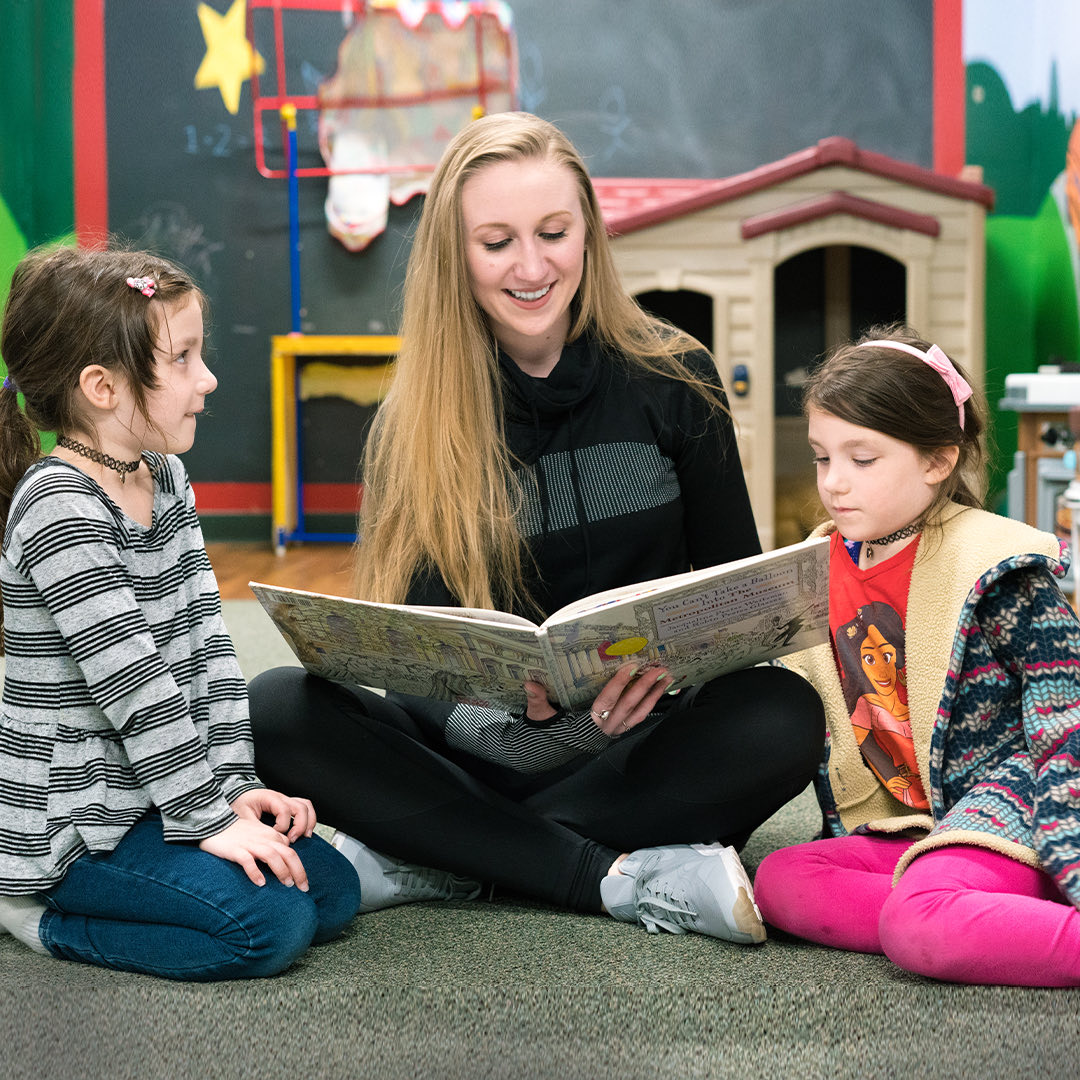
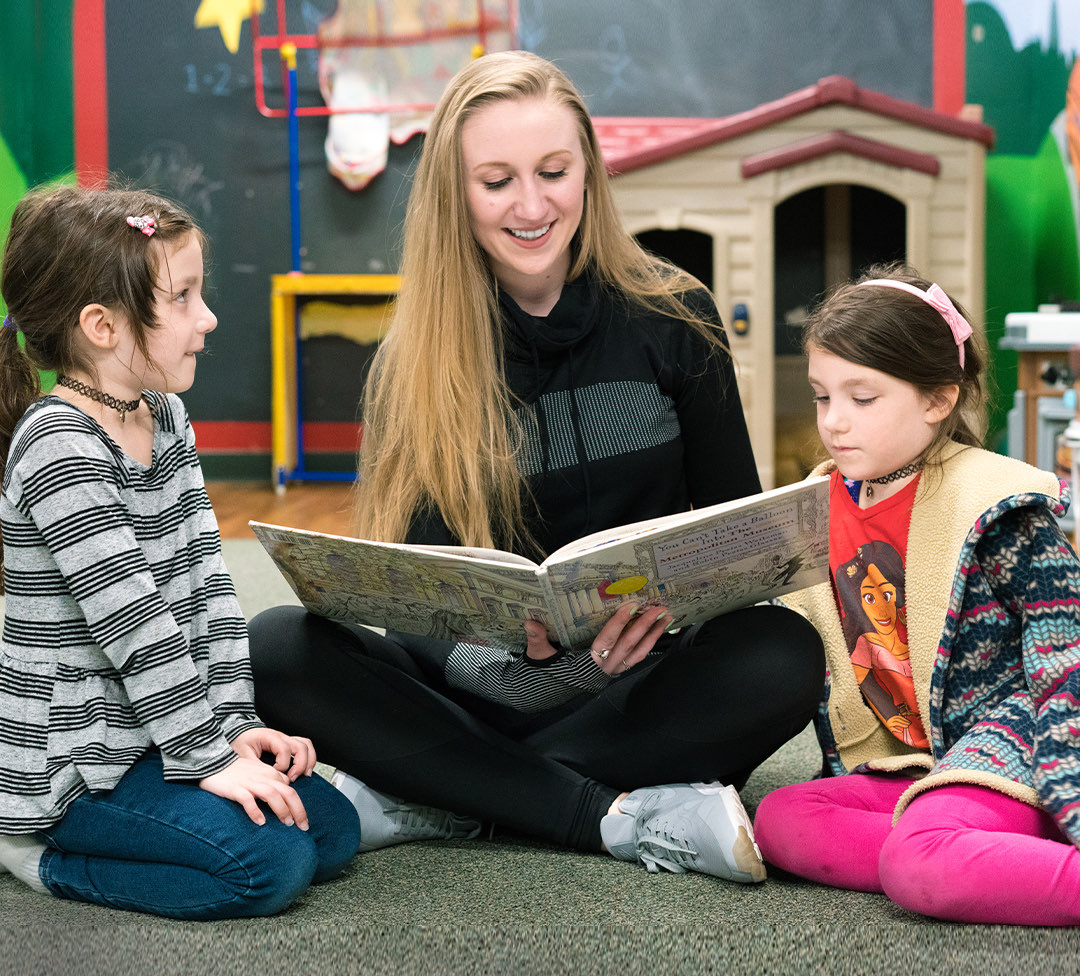
Kidzville: hours first, copy full width, storytime photo uncropped
The intro is text-only again and spans the width; the photo moves beside the
hours, and the two sections swap so hours land straight under the hero — the
thing a parent is actually looking for.

Hours are rebuilt as a split with the list passed through body_html, the same
mechanism the homepage club blocks use, so the two-column layout needs no new
markup. The member-only sign-ups paragraph rides along inside it.

Photo takes v2 at its supplied 1080x976 — no resize, no crop, as asked. Rather
than override object-fit, the frame takes the image's own ratio: the box matches
the picture, so nothing is cut and nothing is letterboxed, and the inline value
also overrides the phone's 4/3.4. Re-encoded only: 749 -> 313 KB.

Consequence worth knowing: this split is landscape where every other one on the
site is portrait, so it sits shorter than its neighbours.

Dropped with the restructure: the "See the hours" link, now that hours precede
the copy, and section--panel, which a split does not carry — the hours no longer
sit on the lighter background.

diff --git a/docs/kidzville/index.html b/docs/kidzville/index.html
@@ -9,7 +9,7 @@
 <link rel="preconnect" href="https://fonts.gstatic.com" crossorigin>
 <link href="https://fonts.googleapis.com/css2?family=Anton&family=Montserrat:ital,wght@0,300;0,400;0,500;0,600;0,700;1,400&display=swap" rel="stylesheet">
 <link rel="icon" type="image/svg+xml" href="/forma-gym-redesign/assets/img/forma-logo.svg">
-<link rel="stylesheet" href="/forma-gym-redesign/assets/css/main.css?v=1787882454">
+<link rel="stylesheet" href="/forma-gym-redesign/assets/css/main.css?v=1787894105">
 <script>(function(){try{
   if(sessionStorage.getItem("forma-intro"))document.documentElement.classList.add("no-preloader");
   var v=localStorage.getItem("forma-view");
@@ -90,37 +90,32 @@
   <div class="hero__scroll" aria-hidden="true"></div>
 </section>
 
-
 <section class="section">
   <div class="wrap">
     <div class="split split--rev">
-      <div class="split__media reveal-img">
+      <div class="split__media reveal-img" style="aspect-ratio:1080/976">
         <img src="/forma-gym-redesign/assets/img/kidz_storytime.jpg" alt="Kidzville staff reading with two children" loading="lazy" srcset="/forma-gym-redesign/assets/img/r/kidz_storytime-400.jpg 400w, /forma-gym-redesign/assets/img/r/kidz_storytime-700.jpg 700w, /forma-gym-redesign/assets/img/kidz_storytime.jpg 1080w" sizes="(max-width: 900px) 100vw, 50vw">
       </div>
       <div class="split__body">
-        <p class="eyebrow">Safe · active · educational</p>
-        <h2 class="h-display">Where <span class="serif">kids</span> actually want to be</h2>
-        <div class="reveal"><p class="body-copy">We offer you the time and space to break free from family responsibilities for a little while – to socialize and work out – while our reliable, capable staff helps your kids enjoy plenty of play and learning.</p><p class="body-copy">Forma Kidzville was created to provide a safe, stimulating and playful environment where children and preteens are free to learn, explore, experiment, and be active, imaginative and creative.</p><div class="split__cta"><a class="inline-link" href="#hours">See the hours →</a></div></div>
+        <p class="eyebrow">Kidzville hours</p>
+        <h2 class="h-display">When we're <span class="serif">open</span></h2>
+        <div class="reveal"><div class="loc-hours"><div><dt>Mon–Thu AM</dt><dd>8:00am – 1:00pm</dd></div><div><dt>Mon–Thu PM</dt><dd>4:00pm – 7:30pm</dd></div><div><dt>Friday</dt><dd>8:00am – 1:00pm</dd></div><div><dt>Sat–Sun</dt><dd>8:00am – 12:00pm</dd></div></div><p class="body-copy reveal only-member">Questions or sign-ups: <a href="mailto:WCReps@formagym.com" style="color:var(--accent-ink)">WCReps@formagym.com</a> or call the front desk at (925) 932-6400. Reservations recommended.</p></div>
       </div>
     </div>
   </div>
 </section>
 
-
-<section class="section section--panel" id="hours">
+<section class="section">
   <div class="wrap">
-    <div class="cards-head">
+    <div class="intro-grid">
       <div>
-        <p class="eyebrow">Kidzville hours</p>
-        <h2 class="h-display reveal">When we're <span class="serif">open</span></h2>
+        <p class="eyebrow">Safe &middot; active &middot; educational</p>
+        <h2 class="h-display reveal">Where <span class="serif">kids</span> actually want to be</h2>
       </div>
-      <p class="body-copy reveal only-member" style="max-width:34ch">Questions or sign-ups: <a href="mailto:WCReps@formagym.com" style="color:var(--accent-ink)">WCReps@formagym.com</a> or call the front desk at (925) 932-6400. Reservations recommended.</p>
-    </div>
-    <div class="loc-hours" style="max-width:34rem">
-      <div><dt>Mon–Thu AM</dt><dd>8:00am – 1:00pm</dd></div>
-      <div><dt>Mon–Thu PM</dt><dd>4:00pm – 7:30pm</dd></div>
-      <div><dt>Friday</dt><dd>8:00am – 1:00pm</dd></div>
-      <div><dt>Sat–Sun</dt><dd>8:00am – 12:00pm</dd></div>
+      <div class="intro-grid__right">
+        <p class="lede reveal">We offer you the time and space to break free from family responsibilities for a little while &ndash; to socialize and work out &ndash; while our reliable, capable staff helps your kids enjoy plenty of play and learning.</p>
+        <p class="body-copy reveal">Forma Kidzville was created to provide a safe, stimulating and playful environment where children and preteens are free to learn, explore, experiment, and be active, imaginative and creative.</p>
+      </div>
     </div>
   </div>
 </section>
@@ -190,8 +185,8 @@
     </div>
   </div>
 </footer>
-<script src="/forma-gym-redesign/assets/js/main.js?v=1787882454"></script>
-<script src="/forma-gym-redesign/assets/js/chat-config.js?v=1787882454"></script>
-<script src="/forma-gym-redesign/assets/js/chat.js?v=1787882454" defer></script>
+<script src="/forma-gym-redesign/assets/js/main.js?v=1787894105"></script>
+<script src="/forma-gym-redesign/assets/js/chat-config.js?v=1787894105"></script>
+<script src="/forma-gym-redesign/assets/js/chat.js?v=1787894105" defer></script>
 </body>
 </html>

diff --git a/docs/join-now/index.html b/docs/join-now/index.html
@@ -9,7 +9,7 @@
 <link rel="preconnect" href="https://fonts.gstatic.com" crossorigin>
 <link href="https://fonts.googleapis.com/css2?family=Anton&family=Montserrat:ital,wght@0,300;0,400;0,500;0,600;0,700;1,400&display=swap" rel="stylesheet">
 <link rel="icon" type="image/svg+xml" href="/forma-gym-redesign/assets/img/forma-logo.svg">
-<link rel="stylesheet" href="/forma-gym-redesign/assets/css/main.css?v=1787882454">
+<link rel="stylesheet" href="/forma-gym-redesign/assets/css/main.css?v=1787894105">
 <script>(function(){try{
   if(sessionStorage.getItem("forma-intro"))document.documentElement.classList.add("no-preloader");
   var v=localStorage.getItem("forma-view");
@@ -274,7 +274,7 @@
     </div>
   </div>
 </div>
-<script src="/forma-gym-redesign/assets/js/join.js?v=1787882454" defer></script>
+<script src="/forma-gym-redesign/assets/js/join.js?v=1787894105" defer></script>
 
 <section class="cta-band">
   <div class="cta-band__media"><img src="/forma-gym-redesign/assets/img/sj_gym_floor.jpg" alt="" loading="lazy" srcset="/forma-gym-redesign/assets/img/r/sj_gym_floor-400.jpg 400w, /forma-gym-redesign/assets/img/r/sj_gym_floor-700.jpg 700w, /forma-gym-redesign/assets/img/r/sj_gym_floor-1000.jpg 1000w, /forma-gym-redesign/assets/img/sj_gym_floor.jpg 1600w" sizes="100vw"></div>
@@ -341,8 +341,8 @@
     </div>
   </div>
 </footer>
-<script src="/forma-gym-redesign/assets/js/main.js?v=1787882454"></script>
-<script src="/forma-gym-redesign/assets/js/chat-config.js?v=1787882454"></script>
-<script src="/forma-gym-redesign/assets/js/chat.js?v=1787882454" defer></script>
+<script src="/forma-gym-redesign/assets/js/main.js?v=1787894105"></script>
+<script src="/forma-gym-redesign/assets/js/chat-config.js?v=1787894105"></script>
+<script src="/forma-gym-redesign/assets/js/chat.js?v=1787894105" defer></script>
 </body>
 </html>

diff --git a/docs/404.html b/docs/404.html
@@ -9,7 +9,7 @@
 <link rel="preconnect" href="https://fonts.gstatic.com" crossorigin>
 <link href="https://fonts.googleapis.com/css2?family=Anton&family=Montserrat:ital,wght@0,300;0,400;0,500;0,600;0,700;1,400&display=swap" rel="stylesheet">
 <link rel="icon" type="image/svg+xml" href="/forma-gym-redesign/assets/img/forma-logo.svg">
-<link rel="stylesheet" href="/forma-gym-redesign/assets/css/main.css?v=1787882454">
+<link rel="stylesheet" href="/forma-gym-redesign/assets/css/main.css?v=1787894105">
 <script>(function(){try{
   if(sessionStorage.getItem("forma-intro"))document.documentElement.classList.add("no-preloader");
   var v=localStorage.getItem("forma-view");
@@ -154,8 +154,8 @@
     </div>
   </div>
 </footer>
-<script src="/forma-gym-redesign/assets/js/main.js?v=1787882454"></script>
-<script src="/forma-gym-redesign/assets/js/chat-config.js?v=1787882454"></script>
-<script src="/forma-gym-redesign/assets/js/chat.js?v=1787882454" defer></script>
+<script src="/forma-gym-redesign/assets/js/main.js?v=1787894105"></script>
+<script src="/forma-gym-redesign/assets/js/chat-config.js?v=1787894105"></script>
+<script src="/forma-gym-redesign/assets/js/chat.js?v=1787894105" defer></script>
 </body>
 </html>

diff --git a/docs/about/index.html b/docs/about/index.html
@@ -9,7 +9,7 @@
 <link rel="preconnect" href="https://fonts.gstatic.com" crossorigin>
 <link href="https://fonts.googleapis.com/css2?family=Anton&family=Montserrat:ital,wght@0,300;0,400;0,500;0,600;0,700;1,400&display=swap" rel="stylesheet">
 <link rel="icon" type="image/svg+xml" href="/forma-gym-redesign/assets/img/forma-logo.svg">
-<link rel="stylesheet" href="/forma-gym-redesign/assets/css/main.css?v=1787882454">
+<link rel="stylesheet" href="/forma-gym-redesign/assets/css/main.css?v=1787894105">
 <script>(function(){try{
   if(sessionStorage.getItem("forma-intro"))document.documentElement.classList.add("no-preloader");
   var v=localStorage.getItem("forma-view");
@@ -225,8 +225,8 @@
     </div>
   </div>
 </footer>
-<script src="/forma-gym-redesign/assets/js/main.js?v=1787882454"></script>
-<script src="/forma-gym-redesign/assets/js/chat-config.js?v=1787882454"></script>
-<script src="/forma-gym-redesign/assets/js/chat.js?v=1787882454" defer></script>
+<script src="/forma-gym-redesign/assets/js/main.js?v=1787894105"></script>
+<script src="/forma-gym-redesign/assets/js/chat-config.js?v=1787894105"></script>
+<script src="/forma-gym-redesign/assets/js/chat.js?v=1787894105" defer></script>
 </body>
 </html>

diff --git a/docs/accessibility-statement/index.html b/docs/accessibility-statement/index.html
@@ -9,7 +9,7 @@
 <link rel="preconnect" href="https://fonts.gstatic.com" crossorigin>
 <link href="https://fonts.googleapis.com/css2?family=Anton&family=Montserrat:ital,wght@0,300;0,400;0,500;0,600;0,700;1,400&display=swap" rel="stylesheet">
 <link rel="icon" type="image/svg+xml" href="/forma-gym-redesign/assets/img/forma-logo.svg">
-<link rel="stylesheet" href="/forma-gym-redesign/assets/css/main.css?v=1787882454">
+<link rel="stylesheet" href="/forma-gym-redesign/assets/css/main.css?v=1787894105">
 <script>(function(){try{
   if(sessionStorage.getItem("forma-intro"))document.documentElement.classList.add("no-preloader");
   var v=localStorage.getItem("forma-view");
@@ -150,8 +150,8 @@
     </div>
   </div>
 </footer>
-<script src="/forma-gym-redesign/assets/js/main.js?v=1787882454"></script>
-<script src="/forma-gym-redesign/assets/js/chat-config.js?v=1787882454"></script>
-<script src="/forma-gym-redesign/assets/js/chat.js?v=1787882454" defer></script>
+<script src="/forma-gym-redesign/assets/js/main.js?v=1787894105"></script>
+<script src="/forma-gym-redesign/assets/js/chat-config.js?v=1787894105"></script>
+<script src="/forma-gym-redesign/assets/js/chat.js?v=1787894105" defer></script>
 </body>
 </html>

diff --git a/docs/app/index.html b/docs/app/index.html
@@ -9,7 +9,7 @@
 <link rel="preconnect" href="https://fonts.gstatic.com" crossorigin>
 <link href="https://fonts.googleapis.com/css2?family=Anton&family=Montserrat:ital,wght@0,300;0,400;0,500;0,600;0,700;1,400&display=swap" rel="stylesheet">
 <link rel="icon" type="image/svg+xml" href="/forma-gym-redesign/assets/img/forma-logo.svg">
-<link rel="stylesheet" href="/forma-gym-redesign/assets/css/main.css?v=1787882454">
+<link rel="stylesheet" href="/forma-gym-redesign/assets/css/main.css?v=1787894105">
 <script>(function(){try{
   if(sessionStorage.getItem("forma-intro"))document.documentElement.classList.add("no-preloader");
   var v=localStorage.getItem("forma-view");
@@ -175,8 +175,8 @@
     </div>
   </div>
 </footer>
-<script src="/forma-gym-redesign/assets/js/main.js?v=1787882454"></script>
-<script src="/forma-gym-redesign/assets/js/chat-config.js?v=1787882454"></script>
-<script src="/forma-gym-redesign/assets/js/chat.js?v=1787882454" defer></script>
+<script src="/forma-gym-redesign/assets/js/main.js?v=1787894105"></script>
+<script src="/forma-gym-redesign/assets/js/chat-config.js?v=1787894105"></script>
+<script src="/forma-gym-redesign/assets/js/chat.js?v=1787894105" defer></script>
 </body>
 </html>

diff --git a/docs/aqua-gfit/index.html b/docs/aqua-gfit/index.html
@@ -9,7 +9,7 @@
 <link rel="preconnect" href="https://fonts.gstatic.com" crossorigin>
 <link href="https://fonts.googleapis.com/css2?family=Anton&family=Montserrat:ital,wght@0,300;0,400;0,500;0,600;0,700;1,400&display=swap" rel="stylesheet">
 <link rel="icon" type="image/svg+xml" href="/forma-gym-redesign/assets/img/forma-logo.svg">
-<link rel="stylesheet" href="/forma-gym-redesign/assets/css/main.css?v=1787882454">
+<link rel="stylesheet" href="/forma-gym-redesign/assets/css/main.css?v=1787894105">
 <script>(function(){try{
   if(sessionStorage.getItem("forma-intro"))document.documentElement.classList.add("no-preloader");
   var v=localStorage.getItem("forma-view");
@@ -167,8 +167,8 @@
     </div>
   </div>
 </footer>
-<script src="/forma-gym-redesign/assets/js/main.js?v=1787882454"></script>
-<script src="/forma-gym-redesign/assets/js/chat-config.js?v=1787882454"></script>
-<script src="/forma-gym-redesign/assets/js/chat.js?v=1787882454" defer></script>
+<script src="/forma-gym-redesign/assets/js/main.js?v=1787894105"></script>
+<script src="/forma-gym-redesign/assets/js/chat-config.js?v=1787894105"></script>
+<script src="/forma-gym-redesign/assets/js/chat.js?v=1787894105" defer></script>
 </body>
 </html>

diff --git a/docs/barre-gfit/index.html b/docs/barre-gfit/index.html
@@ -9,7 +9,7 @@
 <link rel="preconnect" href="https://fonts.gstatic.com" crossorigin>
 <link href="https://fonts.googleapis.com/css2?family=Anton&family=Montserrat:ital,wght@0,300;0,400;0,500;0,600;0,700;1,400&display=swap" rel="stylesheet">
 <link rel="icon" type="image/svg+xml" href="/forma-gym-redesign/assets/img/forma-logo.svg">
-<link rel="stylesheet" href="/forma-gym-redesign/assets/css/main.css?v=1787882454">
+<link rel="stylesheet" href="/forma-gym-redesign/assets/css/main.css?v=1787894105">
 <script>(function(){try{
   if(sessionStorage.getItem("forma-intro"))document.documentElement.classList.add("no-preloader");
   var v=localStorage.getItem("forma-view");
@@ -167,8 +167,8 @@
     </div>
   </div>
 </footer>
-<script src="/forma-gym-redesign/assets/js/main.js?v=1787882454"></script>
-<script src="/forma-gym-redesign/assets/js/chat-config.js?v=1787882454"></script>
-<script src="/forma-gym-redesign/assets/js/chat.js?v=1787882454" defer></script>
+<script src="/forma-gym-redesign/assets/js/main.js?v=1787894105"></script>
+<script src="/forma-gym-redesign/assets/js/chat-config.js?v=1787894105"></script>
+<script src="/forma-gym-redesign/assets/js/chat.js?v=1787894105" defer></script>
 </body>
 </html>

diff --git a/docs/cardio-hiit/index.html b/docs/cardio-hiit/index.html
@@ -9,7 +9,7 @@
 <link rel="preconnect" href="https://fonts.gstatic.com" crossorigin>
 <link href="https://fonts.googleapis.com/css2?family=Anton&family=Montserrat:ital,wght@0,300;0,400;0,500;0,600;0,700;1,400&display=swap" rel="stylesheet">
 <link rel="icon" type="image/svg+xml" href="/forma-gym-redesign/assets/img/forma-logo.svg">
-<link rel="stylesheet" href="/forma-gym-redesign/assets/css/main.css?v=1787882454">
+<link rel="stylesheet" href="/forma-gym-redesign/assets/css/main.css?v=1787894105">
 <script>(function(){try{
   if(sessionStorage.getItem("forma-intro"))document.documentElement.classList.add("no-preloader");
   var v=localStorage.getItem("forma-view");
@@ -167,8 +167,8 @@
     </div>
   </div>
 </footer>
-<script src="/forma-gym-redesign/assets/js/main.js?v=1787882454"></script>
-<script src="/forma-gym-redesign/assets/js/chat-config.js?v=1787882454"></script>
-<script src="/forma-gym-redesign/assets/js/chat.js?v=1787882454" defer></script>
+<script src="/forma-gym-redesign/assets/js/main.js?v=1787894105"></script>
+<script src="/forma-gym-redesign/assets/js/chat-config.js?v=1787894105"></script>
+<script src="/forma-gym-redesign/assets/js/chat.js?v=1787894105" defer></script>
 </body>
 </html>

diff --git a/docs/contact/index.html b/docs/contact/index.html
@@ -9,7 +9,7 @@
 <link rel="preconnect" href="https://fonts.gstatic.com" crossorigin>
 <link href="https://fonts.googleapis.com/css2?family=Anton&family=Montserrat:ital,wght@0,300;0,400;0,500;0,600;0,700;1,400&display=swap" rel="stylesheet">
 <link rel="icon" type="image/svg+xml" href="/forma-gym-redesign/assets/img/forma-logo.svg">
-<link rel="stylesheet" href="/forma-gym-redesign/assets/css/main.css?v=1787882454">
+<link rel="stylesheet" href="/forma-gym-redesign/assets/css/main.css?v=1787894105">
 <script>(function(){try{
   if(sessionStorage.getItem("forma-intro"))document.documentElement.classList.add("no-preloader");
   var v=localStorage.getItem("forma-view");
@@ -187,8 +187,8 @@
     </div>
   </div>
 </footer>
-<script src="/forma-gym-redesign/assets/js/main.js?v=1787882454"></script>
-<script src="/forma-gym-redesign/assets/js/chat-config.js?v=1787882454"></script>
-<script src="/forma-gym-redesign/assets/js/chat.js?v=1787882454" defer></script>
+<script src="/forma-gym-redesign/assets/js/main.js?v=1787894105"></script>
+<script src="/forma-gym-redesign/assets/js/chat-config.js?v=1787894105"></script>
+<script src="/forma-gym-redesign/assets/js/chat.js?v=1787894105" defer></script>
 </body>
 </html>

diff --git a/docs/cryo/index.html b/docs/cryo/index.html
@@ -9,7 +9,7 @@
 <link rel="preconnect" href="https://fonts.gstatic.com" crossorigin>
 <link href="https://fonts.googleapis.com/css2?family=Anton&family=Montserrat:ital,wght@0,300;0,400;0,500;0,600;0,700;1,400&display=swap" rel="stylesheet">
 <link rel="icon" type="image/svg+xml" href="/forma-gym-redesign/assets/img/forma-logo.svg">
-<link rel="stylesheet" href="/forma-gym-redesign/assets/css/main.css?v=1787882454">
+<link rel="stylesheet" href="/forma-gym-redesign/assets/css/main.css?v=1787894105">
 <script>(function(){try{
   if(sessionStorage.getItem("forma-intro"))document.documentElement.classList.add("no-preloader");
   var v=localStorage.getItem("forma-view");
@@ -220,8 +220,8 @@
     </div>
   </div>
 </footer>
-<script src="/forma-gym-redesign/assets/js/main.js?v=1787882454"></script>
-<script src="/forma-gym-redesign/assets/js/chat-config.js?v=1787882454"></script>
-<script src="/forma-gym-redesign/assets/js/chat.js?v=1787882454" defer></script>
+<script src="/forma-gym-redesign/assets/js/main.js?v=1787894105"></script>
+<script src="/forma-gym-redesign/assets/js/chat-config.js?v=1787894105"></script>
+<script src="/forma-gym-redesign/assets/js/chat.js?v=1787894105" defer></script>
 </body>
 </html>

diff --git a/docs/cycle-gfit/index.html b/docs/cycle-gfit/index.html
@@ -9,7 +9,7 @@
 <link rel="preconnect" href="https://fonts.gstatic.com" crossorigin>
 <link href="https://fonts.googleapis.com/css2?family=Anton&family=Montserrat:ital,wght@0,300;0,400;0,500;0,600;0,700;1,400&display=swap" rel="stylesheet">
 <link rel="icon" type="image/svg+xml" href="/forma-gym-redesign/assets/img/forma-logo.svg">
-<link rel="stylesheet" href="/forma-gym-redesign/assets/css/main.css?v=1787882454">
+<link rel="stylesheet" href="/forma-gym-redesign/assets/css/main.css?v=1787894105">
 <script>(function(){try{
   if(sessionStorage.getItem("forma-intro"))document.documentElement.classList.add("no-preloader");
   var v=localStorage.getItem("forma-view");
@@ -167,8 +167,8 @@
     </div>
   </div>
 </footer>
-<script src="/forma-gym-redesign/assets/js/main.js?v=1787882454"></script>
-<script src="/forma-gym-redesign/assets/js/chat-config.js?v=1787882454"></script>
-<script src="/forma-gym-redesign/assets/js/chat.js?v=1787882454" defer></script>
+<script src="/forma-gym-redesign/assets/js/main.js?v=1787894105"></script>
+<script src="/forma-gym-redesign/assets/js/chat-config.js?v=1787894105"></script>
+<script src="/forma-gym-redesign/assets/js/chat.js?v=1787894105" defer></script>
 </body>
 </html>
